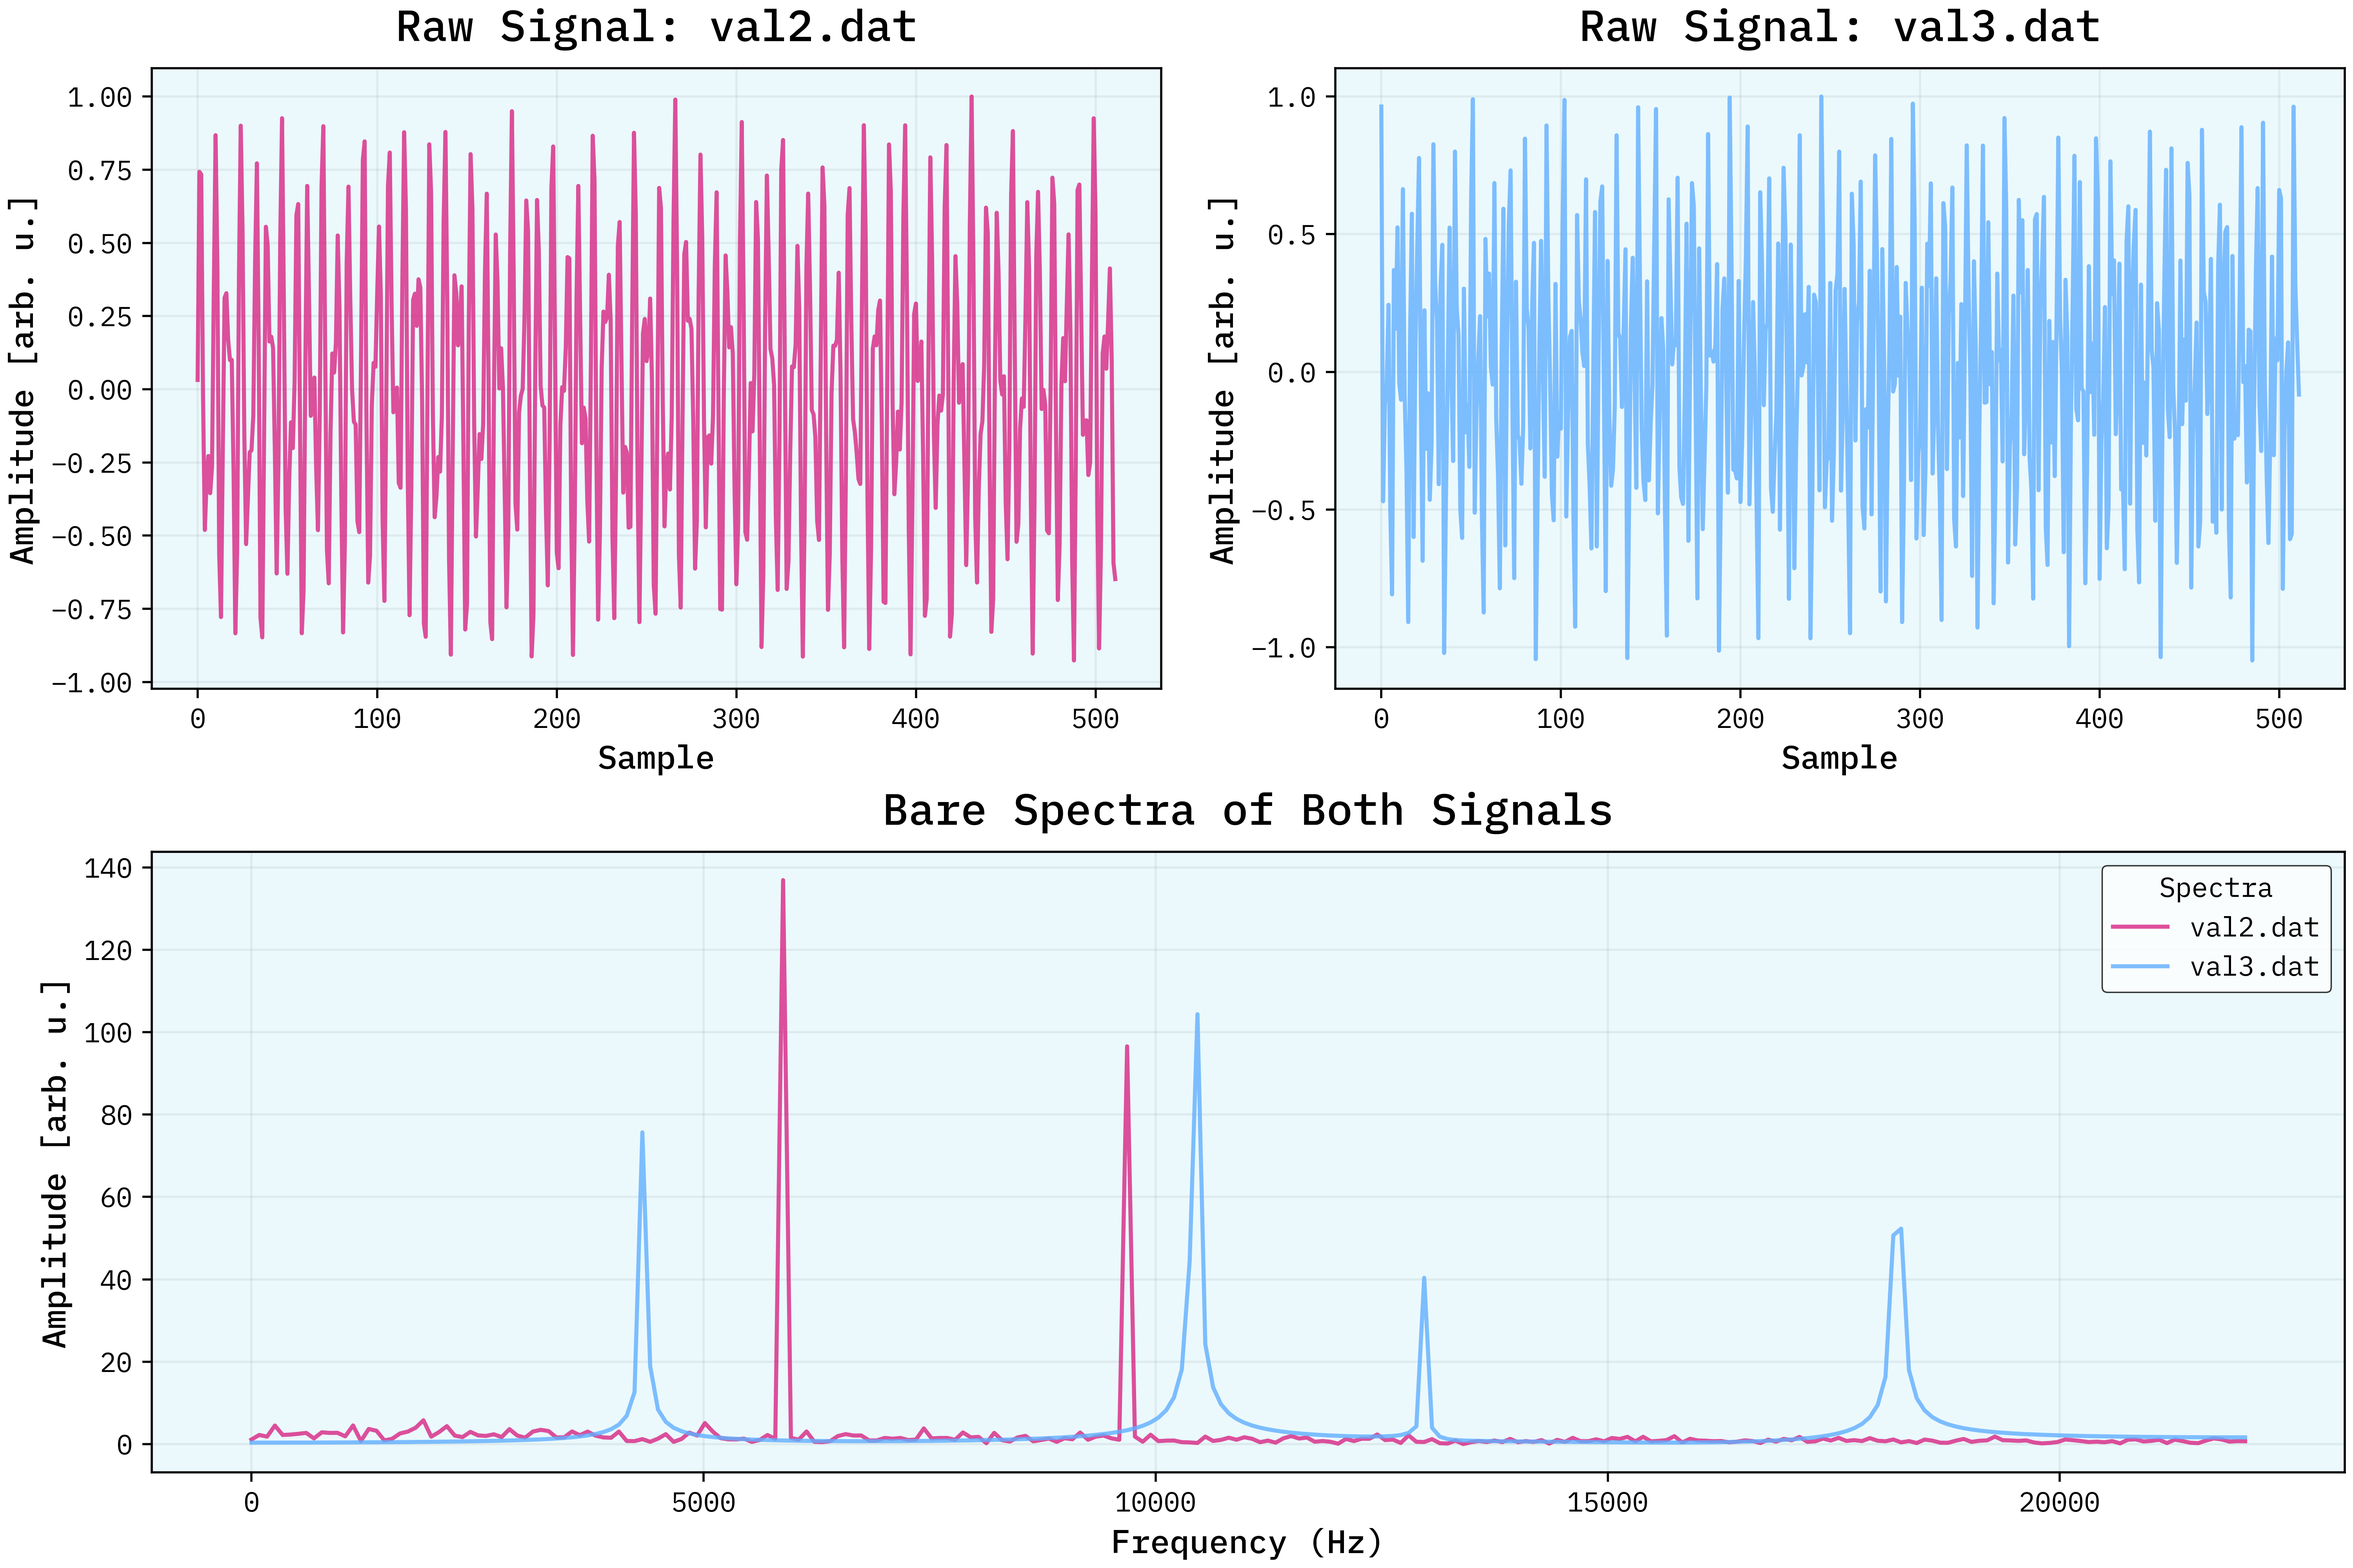
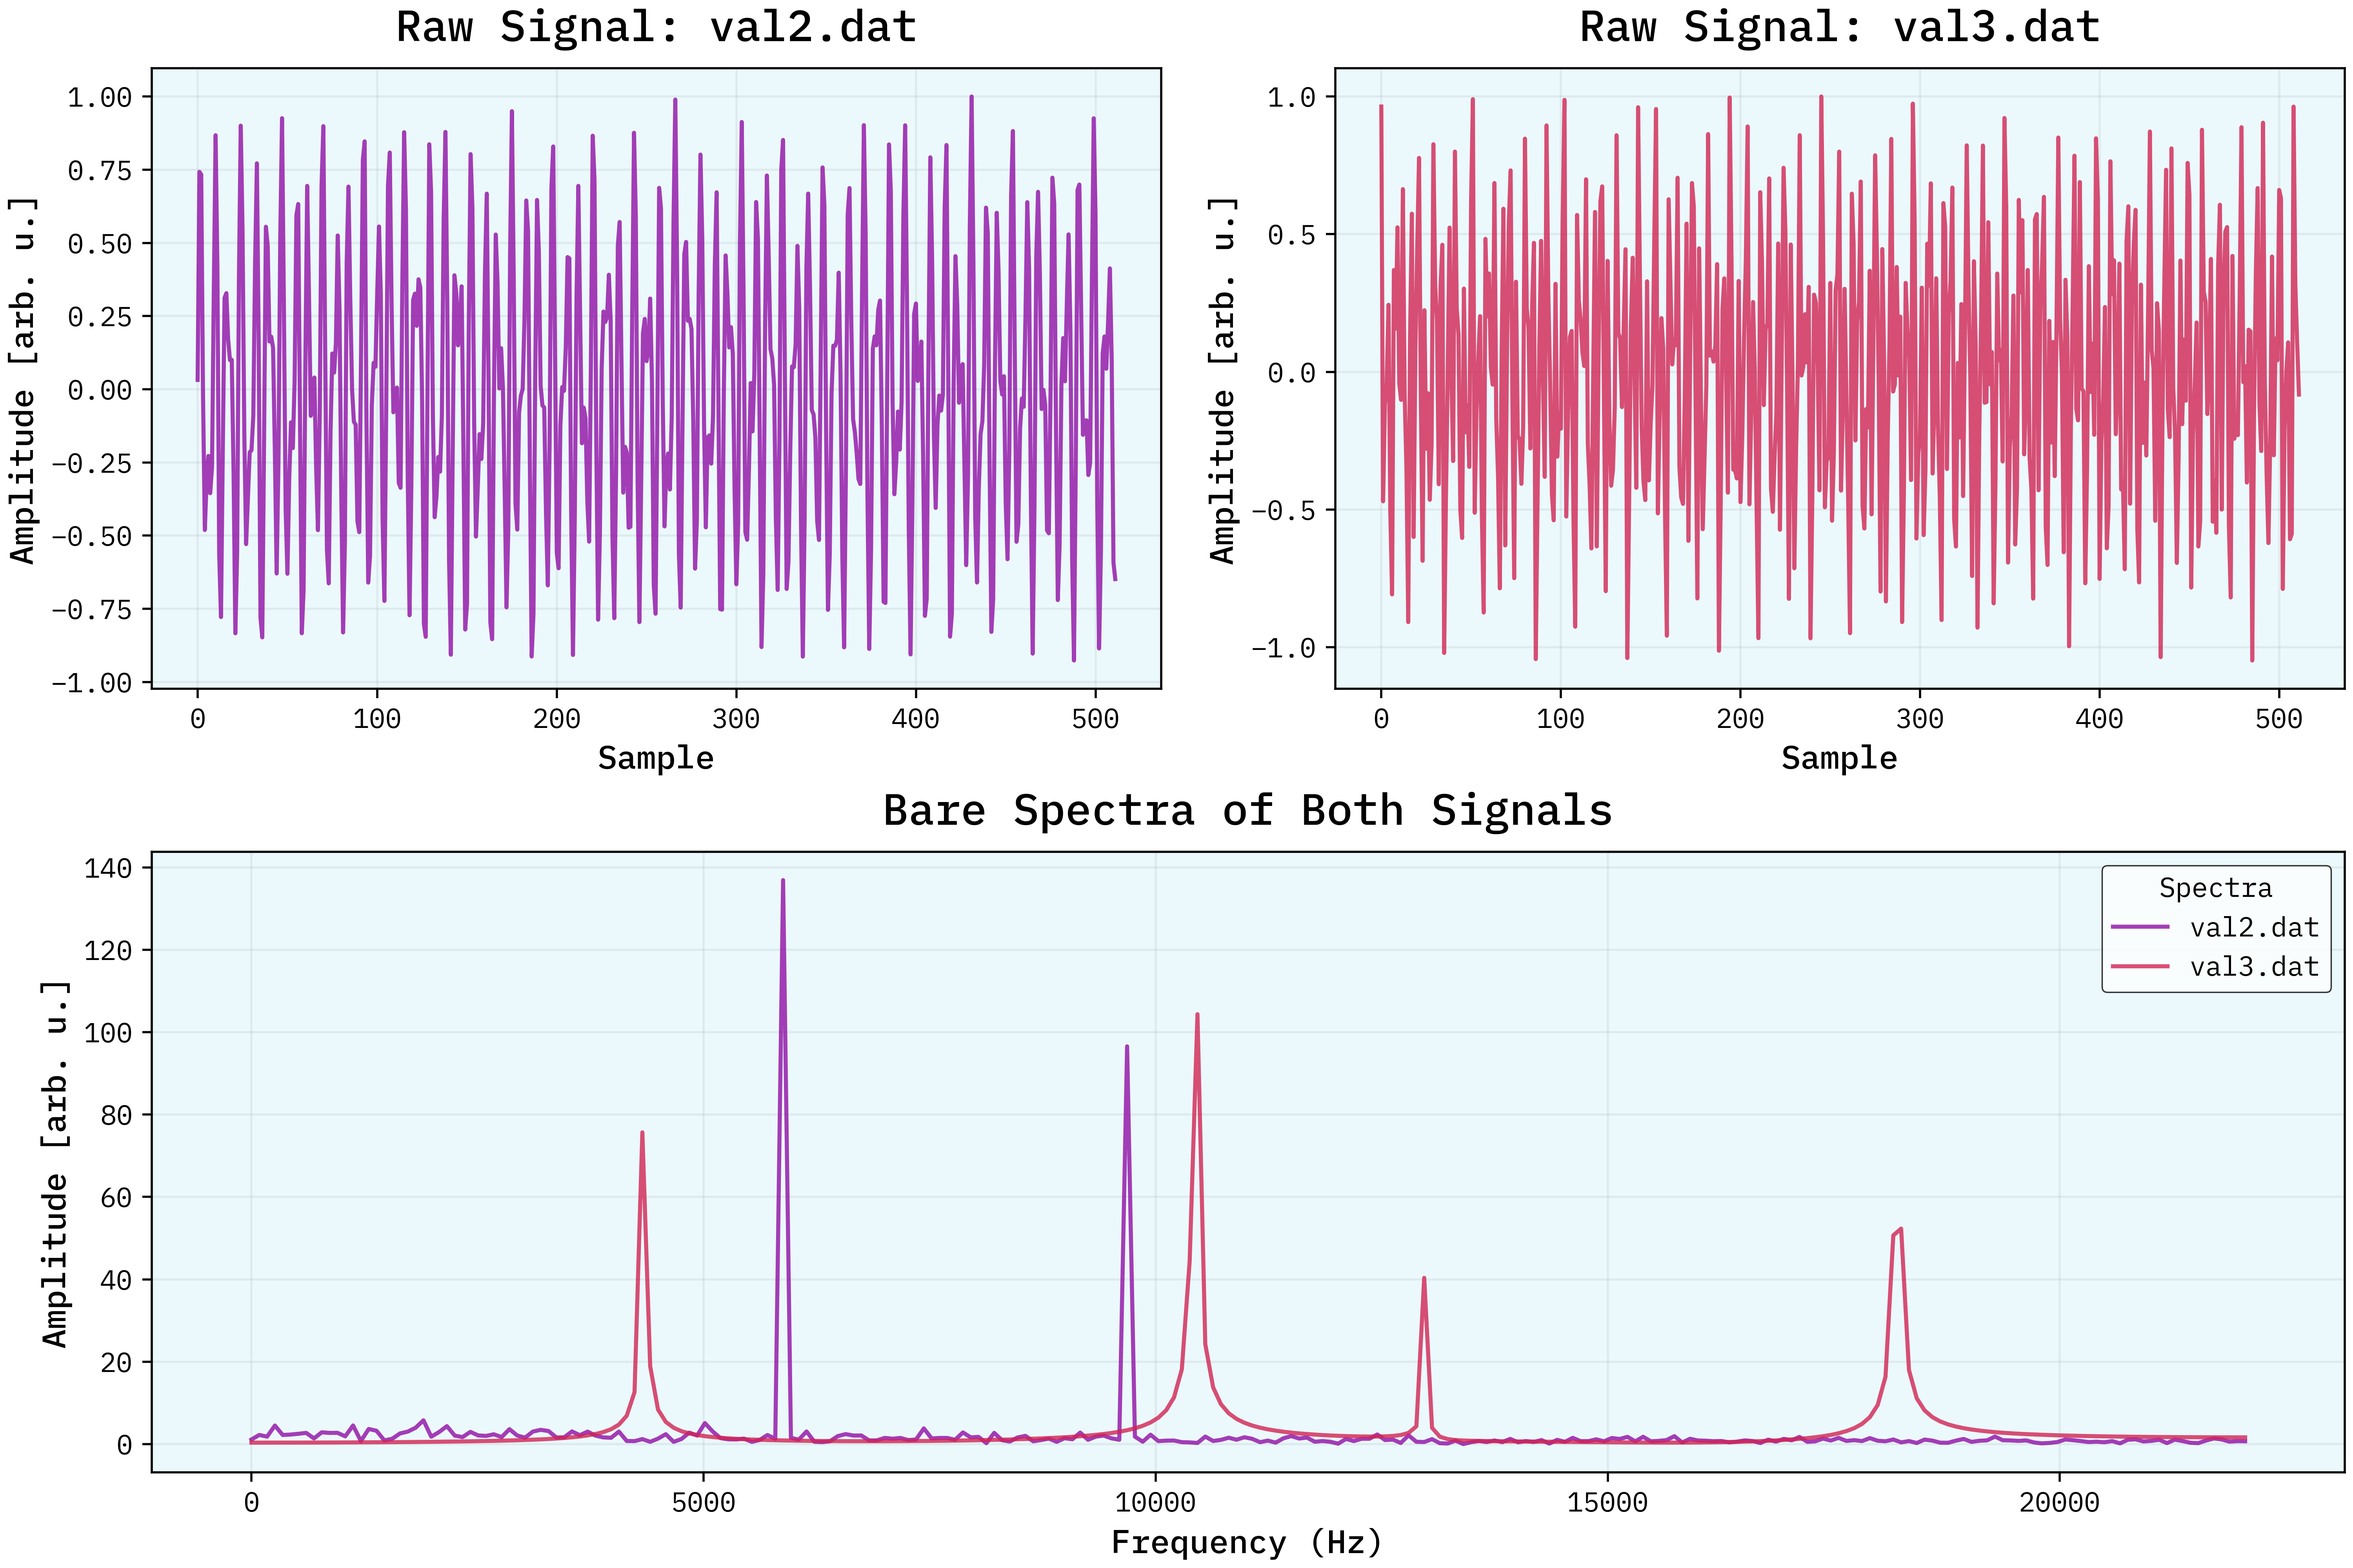
fix: :art: fix legacy colors

diff --git a/SpectralAnalysis/Code/signal-spectrum.py b/SpectralAnalysis/Code/signal-spectrum.py
@@ -8,6 +8,7 @@ import matplotlib as mpl
 import scipy.signal as signal
 import scipy.fft as fft
 from analysis import *
+import cmasher as cmr
 
 # Constants
 SAMPLE_RATE = 44100
@@ -16,7 +17,7 @@ SAMPLE_RATE = 44100
 mpl.style.use('./ma-style.mplstyle')
 
 # Load the signal
-data_path = './SuppliedData/val3.dat'
+data_path = './SuppliedData/val2.dat'
 data = np.loadtxt(data_path)
 data = data / np.max(data)
 data_len = len(data)
@@ -30,7 +31,8 @@ print(f"Peaks: {[freq[p] for p in peaks[0]]}")
 print(f"Peak Heights: {np.array(peaks[1]['peak_heights'])/np.max(np.abs(spectrum))}")
 
 # Load .wav 
-sound_data = load_wav('./GeneratedData/sig_4323_10463_12971_18245.wav')
+# sound_data = load_wav('./GeneratedData/sig_4323_10463_12971_18245.wav')
+sound_data = load_wav('./GeneratedData/sig_5880_9685.wav')
 print(sound_data["n"])
 sound = sound_data['signal'][:data_len] / np.max(sound_data['signal'])
 s_spectrum = fft.fft(sound)
@@ -38,26 +40,41 @@ s_spectrum = s_spectrum[:data_len//2]
 
 
 # Plot the signal
-colors = ["#37123c","#d72483","#ddc4dd","#60afff","#98CE00"]
+colors = cmr.take_cmap_colors('cmr.tropical', 8, cmap_range=(0.0, 0.85))
+
 fig, ax = plt.subplots(3, 1, figsize=(10, 8), layout='compressed')
 
-ax[0].plot(data, label='Signal', color=colors[0])
-ax[0].plot(sound, label='Recreation', color=colors[1], alpha=0.5)
+ax[0].plot(data, label='Signal', color=colors[2])
+ax[0].plot(sound, label='Recreation', color=colors[0], alpha=0.5)
 ax[0].set_xlabel('Sample')
 ax[0].set_ylabel('Amplitude [arb. u.]')
-ax[0].legend(frameon=True)
+ax[0].set_title(f"{data_path.split('/')[-1]} and its Recreation")
+l0 = ax[0].legend(frameon=True)
+l0.set_title('Signal')
+f0 = l0.get_frame()
+f0.set_edgecolor('black')
+f0.set_facecolor('white')
+f0.set_linewidth(0.5)
+f0.set_alpha(0.8)
 
-ax[1].plot(freq, np.abs(spectrum), label='Real', color=colors[3])
-ax[1].plot(freq, np.abs(s_spectrum), label='Recreation', color=colors[4])
+ax[1].plot(freq, np.abs(spectrum), label='Real', color=colors[2])
+ax[1].plot(freq, np.abs(s_spectrum), label='Recreation', color=colors[0])
 ax[1].set_xlabel('Frequency (Hz)')
 ax[1].set_ylabel('Amplitude [arb. u.]')
-ax[1].legend(frameon=False)
+ax[1].set_title('Spectrum of the Signals')
+l1 = ax[1].legend(frameon=True)
+l1.set_title('Signal')
+f1 = l1.get_frame()
+f1.set_edgecolor('black')
+f1.set_facecolor('white')
+f1.set_linewidth(0.5)
+f1.set_alpha(0.8)
 
-ax[2].plot(np.abs(data-sound), label='Difference', color=colors[1])
+ax[2].plot(np.abs(data-sound), label='Difference', color=colors[6])
 ax[2].set_xlabel('Sample')
 ax[2].set_ylabel('Absolute Difference')
-ax[2].legend(frameon=False)
 ax[2].set_yscale('log')
+ax[2].set_title('Absolute Difference between Signals')
 
 plt.suptitle("Input Signal Reconstruction")
 

diff --git a/SpectralAnalysis/Code/simple-plot.py b/SpectralAnalysis/Code/simple-plot.py
@@ -7,6 +7,7 @@ import matplotlib as mpl
 import scipy.signal as signal
 import scipy.fft as fft
 from analysis import *
+import cmasher as cmr
 
 # Constants
 SAMPLE_RATE = 44100
@@ -34,26 +35,26 @@ bare_spectrum2 = fft.fft(data2)
 bare_spectrum2 = bare_spectrum2[:data_len2//2]
 
 # Plot
-colors = ["#37123c","#d72483","#ddc4dd","#60afff","#98CE00"]
+colors = cmr.take_cmap_colors('cmr.tropical', 8, cmap_range=(0.0, 0.85))
 fig = plt.figure(figsize=(12, 8), layout='compressed')
 gs = fig.add_gridspec(2,2)
 ax = [fig.add_subplot(gs[0,0]), fig.add_subplot(gs[0,1]), fig.add_subplot(gs[1,:])]
 
 # Plot the 1. signal
-ax[0].plot(data, color=colors[1], alpha=0.8)
+ax[0].plot(data, color=colors[0], alpha=0.8)
 ax[0].set_xlabel('Sample')
 ax[0].set_ylabel('Amplitude [arb. u.]')
 ax[0].set_title(f"Raw Signal: {data_path.split('/')[-1]}")
 
 # Plot the 2. signal
-ax[1].plot(data2, color=colors[3], alpha=0.8)
+ax[1].plot(data2, color=colors[2], alpha=0.8)
 ax[1].set_xlabel('Sample')
 ax[1].set_ylabel('Amplitude [arb. u.]')
 ax[1].set_title(f"Raw Signal: {data_path2.split('/')[-1]}")
 
 # Plot both spectra
-ax[2].plot(freq, np.abs(bare_spectrum), label=f"{data_path.split('/')[-1]}", color=colors[1], alpha=0.8, lw=1.5)
-ax[2].plot(freq, np.abs(bare_spectrum2), label=f"{data_path2.split('/')[-1]}", color=colors[3], alpha=0.8, lw=1.5)
+ax[2].plot(freq, np.abs(bare_spectrum), label=f"{data_path.split('/')[-1]}", color=colors[0], alpha=0.8, lw=1.5)
+ax[2].plot(freq, np.abs(bare_spectrum2), label=f"{data_path2.split('/')[-1]}", color=colors[2], alpha=0.8, lw=1.5)
 ax[2].set_xlabel('Frequency (Hz)')
 ax[2].set_ylabel('Amplitude [arb. u.]')
 ax[2].set_title("Bare Spectra of Both Signals")
